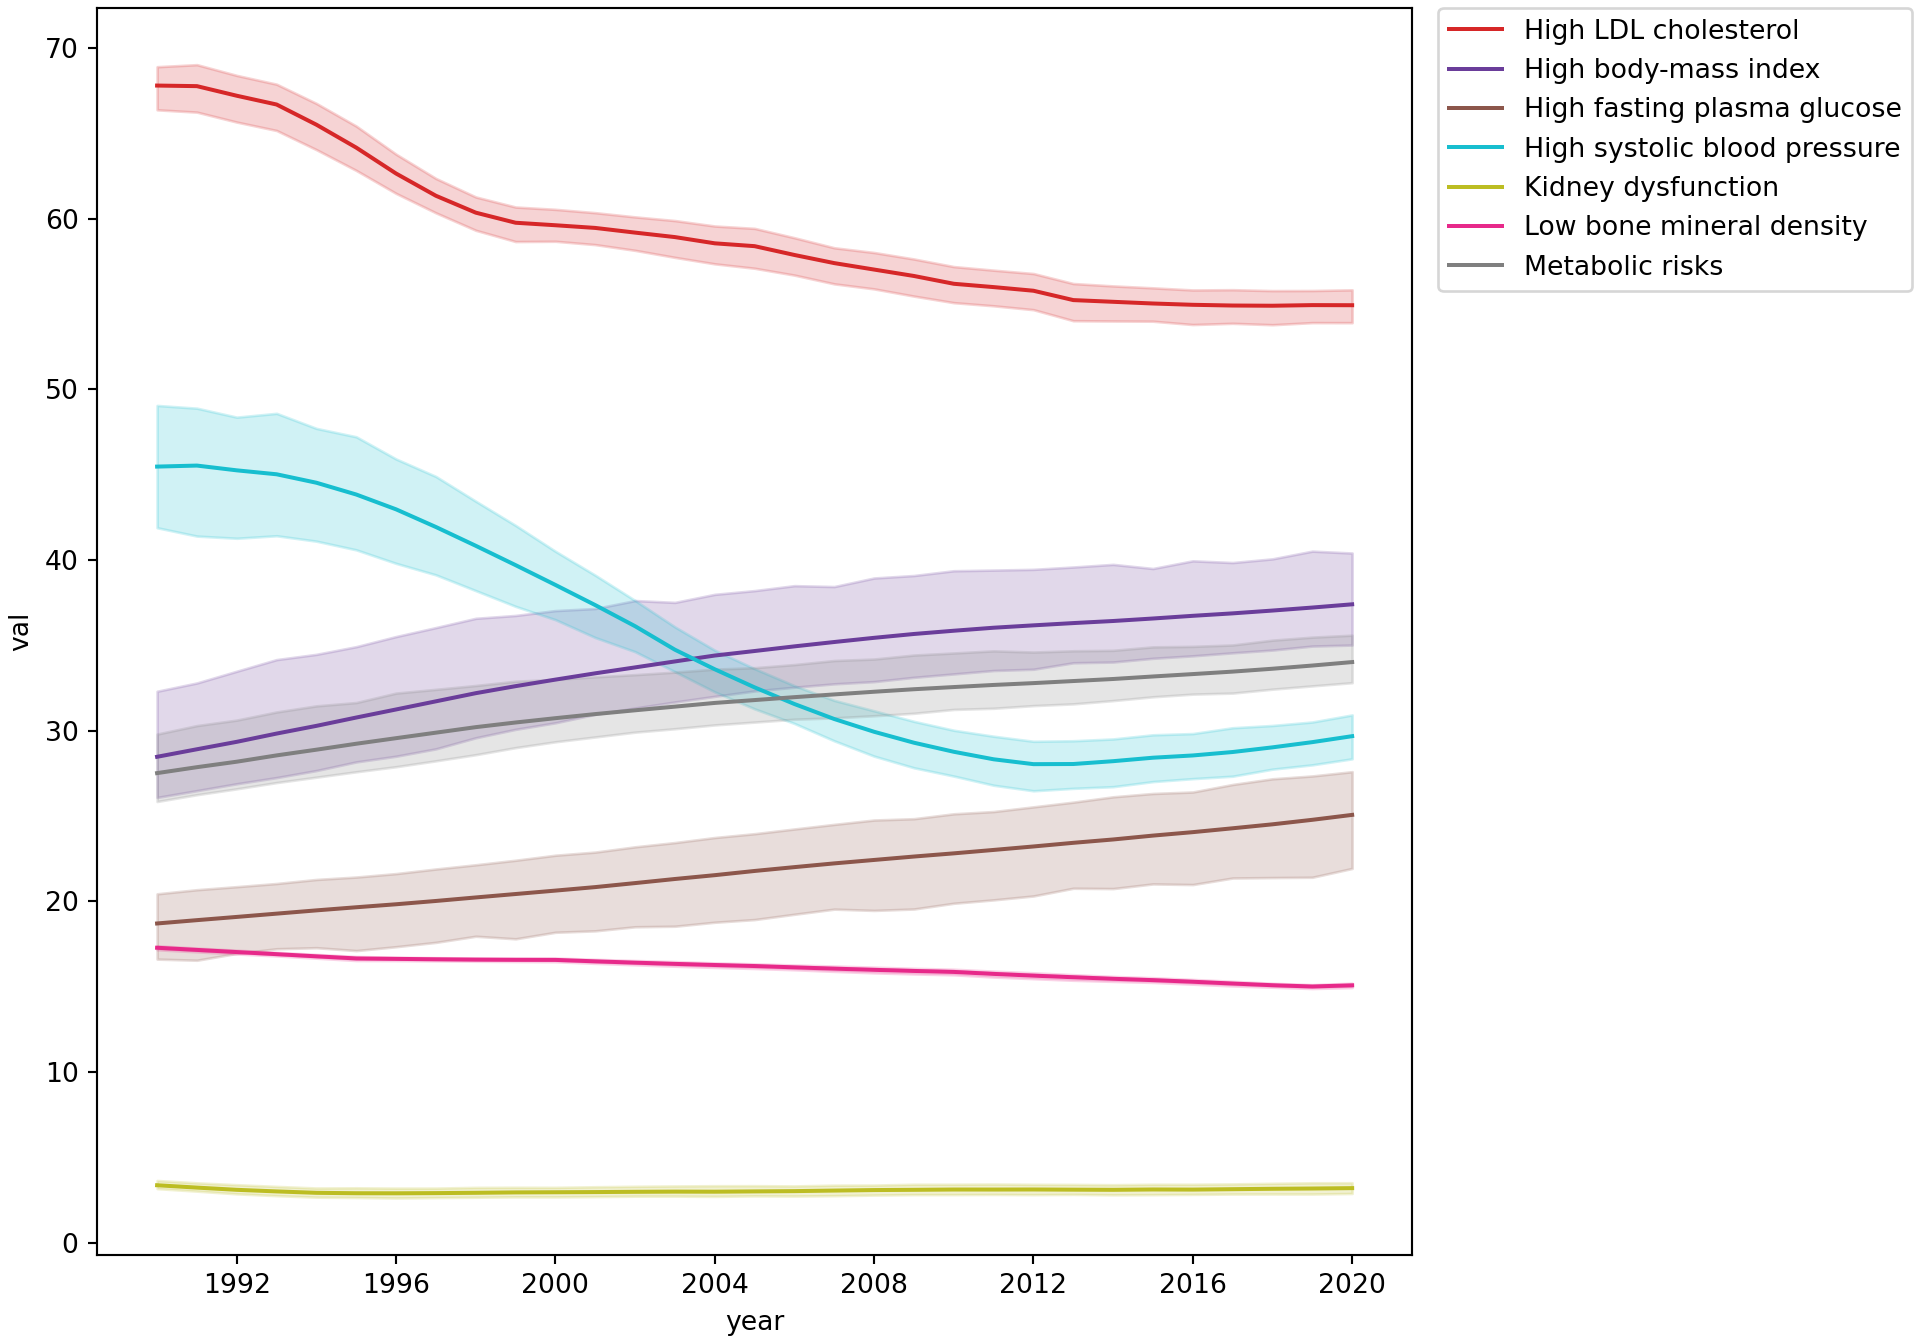
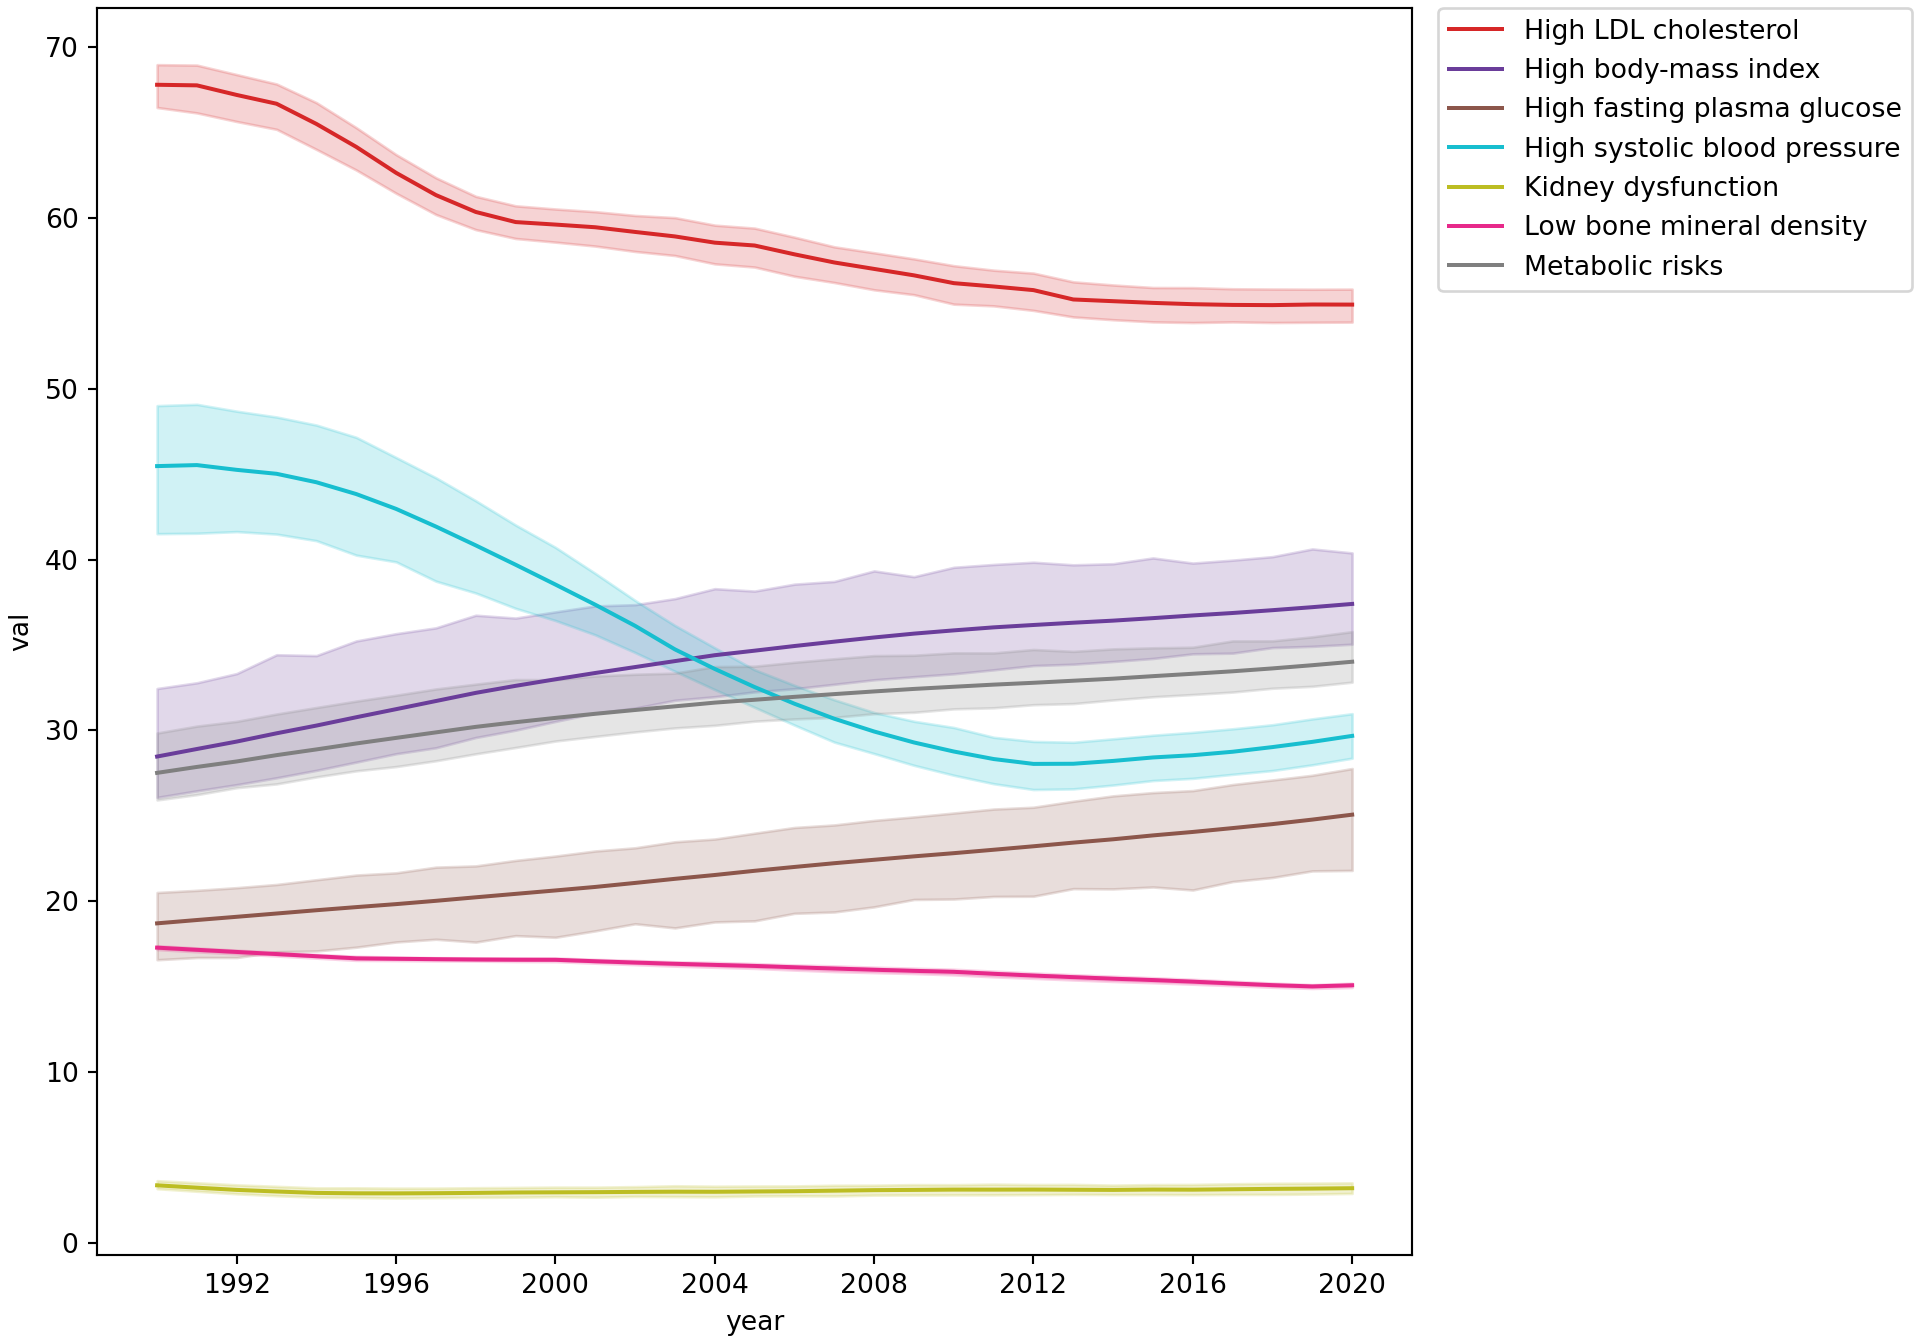
Built site for gh-pages

diff --git a/index.html b/index.html
@@ -335,8 +335,8 @@ window.Quarto = {
   <li><a href="#analysis---clusters-over-time" id="toc-analysis---clusters-over-time" class="nav-link" data-scroll-target="#analysis---clusters-over-time">Analysis - Clusters over Time</a>
   <ul class="collapse">
   <li><a href="#composition-clusters-with-bar-graphs-and-line-plots" id="toc-composition-clusters-with-bar-graphs-and-line-plots" class="nav-link" data-scroll-target="#composition-clusters-with-bar-graphs-and-line-plots">Composition Clusters with Bar Graphs and Line Plots</a></li>
+  <li><a href="#disease-line-plot-rename" id="toc-disease-line-plot-rename" class="nav-link" data-scroll-target="#disease-line-plot-rename">Disease Line Plot (Rename)</a></li>
   <li><a href="#section" id="toc-section" class="nav-link" data-scroll-target="#section"></a></li>
-  <li><a href="#section-1" id="toc-section-1" class="nav-link" data-scroll-target="#section-1"></a></li>
   <li><a href="#stats-for-proportions-confirming-the-significance-of-changing-clusters-over-time" id="toc-stats-for-proportions-confirming-the-significance-of-changing-clusters-over-time" class="nav-link" data-scroll-target="#stats-for-proportions-confirming-the-significance-of-changing-clusters-over-time">Stats for Proportions Confirming the Significance of Changing Clusters Over Time</a></li>
   <li><a href="#cochran-armitage-test" id="toc-cochran-armitage-test" class="nav-link" data-scroll-target="#cochran-armitage-test">Cochran-Armitage Test</a></li>
   <li><a href="#companion-robustness-kendall-tau-trend-test" id="toc-companion-robustness-kendall-tau-trend-test" class="nav-link" data-scroll-target="#companion-robustness-kendall-tau-trend-test">Companion Robustness: Kendall Tau Trend Test</a></li>
@@ -669,11 +669,20 @@ Figure&nbsp;11: Nutrient cluster proportions over time as line plot.
 </div>
 </div>
 </section>
+<section id="disease-line-plot-rename" class="level3">
+<h3 class="anchored" data-anchor-id="disease-line-plot-rename">Disease Line Plot (Rename)</h3>
+<div class="cell">
+<div class="cell-output-display">
+<div>
+<figure class="figure">
+<p><a href="capstone_files/figure-html/unnamed-chunk-10-1.png" class="lightbox" data-gallery="quarto-lightbox-gallery-12"><img src="capstone_files/figure-html/unnamed-chunk-10-1.png" class="img-fluid figure-img" width="672"></a></p>
+</figure>
+</div>
+</div>
+</div>
+</section>
 <section id="section" class="level3">
 <h3 class="anchored" data-anchor-id="section"></h3>
-</section>
-<section id="section-1" class="level3">
-<h3 class="anchored" data-anchor-id="section-1"></h3>
 </section>
 <section id="stats-for-proportions-confirming-the-significance-of-changing-clusters-over-time" class="level3">
 <h3 class="anchored" data-anchor-id="stats-for-proportions-confirming-the-significance-of-changing-clusters-over-time">Stats for Proportions Confirming the Significance of Changing Clusters Over Time</h3>
@@ -741,8 +750,14 @@ Figure&nbsp;11: Nutrient cluster proportions over time as line plot.
 <h3 class="anchored" data-anchor-id="cochran-armitage-test">Cochran-Armitage Test</h3>
 <p>The Cochran-Armitage trend test was applied separately to each of the five clusters, testing whether that cluster’s share of the population trended consistently upward or downward across the ordered sequence of survey years (1974-2000). It binary checked if the change in households was significantly different between the initial and final years to mark long-term trends. It found that all but cluster 1 experience significant change during the time frame. The confirms the listed trends, focusing on cluster 2 are not defined by noise in the data.Together, these results indicate a substantial compositional shift in the population’s cluster membership over the 27-year period, with Cluster 2 gaining population share at the expense of Clusters 0, 3, and 4, while Cluster 1 remained a stable, low-prevalence group throughout.</p>
 <div class="cell">
+<div id="tbl-cochran-armitage" class="cell quarto-float quarto-figure quarto-figure-center anchored">
+<figure class="quarto-float quarto-float-tbl figure">
+<figcaption class="quarto-float-caption-top quarto-float-caption quarto-float-tbl" id="tbl-cochran-armitage-caption-0ceaefa1-69ba-4598-a22c-09a6ac19f8ca">
+Table&nbsp;1: Cochran-Armitage trend test results, by nutrient cluster
+</figcaption>
+<div aria-describedby="tbl-cochran-armitage-caption-0ceaefa1-69ba-4598-a22c-09a6ac19f8ca">
 <div class="cell-output-display">
-<table class="table table-striped table-hover table-condensed caption-top table-sm small" data-quarto-postprocess="true">
+<table class="table table-striped table-hover table-condensed do-not-create-environment cell caption-top table-sm small" data-quarto-postprocess="true">
 <caption>Cochran-Armitage trend test results, by nutrient cluster</caption>
 <thead>
 <tr class="header">
@@ -817,6 +832,9 @@ Figure&nbsp;11: Nutrient cluster proportions over time as line plot.
 </table>
 </div>
 </div>
+</figure>
+</div>
+</div>
 </section>
 <section id="companion-robustness-kendall-tau-trend-test" class="level3">
 <h3 class="anchored" data-anchor-id="companion-robustness-kendall-tau-trend-test">Companion Robustness: Kendall Tau Trend Test</h3>
@@ -824,7 +842,7 @@ Figure&nbsp;11: Nutrient cluster proportions over time as line plot.
 <div id="tbl-kendall-tau" class="cell quarto-float quarto-figure quarto-figure-center anchored">
 <figure class="quarto-float quarto-float-tbl figure">
 <figcaption class="quarto-float-caption-top quarto-float-caption quarto-float-tbl" id="tbl-kendall-tau-caption-0ceaefa1-69ba-4598-a22c-09a6ac19f8ca">
-Table&nbsp;1: Kendall’s tau rank-correlation trend test, by nutrient cluster
+Table&nbsp;2: Kendall’s tau rank-correlation trend test, by nutrient cluster
 </figcaption>
 <div aria-describedby="tbl-kendall-tau-caption-0ceaefa1-69ba-4598-a22c-09a6ac19f8ca">
 <div class="cell-output-display">
@@ -886,7 +904,7 @@ Table&nbsp;1: Kendall’s tau rank-correlation trend test, by nutrient cluster
 <div id="fig-metabolic-rates-over-time-all-region" class="quarto-float quarto-figure quarto-figure-center anchored">
 <figure class="quarto-float quarto-float-fig figure">
 <div aria-describedby="fig-metabolic-rates-over-time-all-region-caption-0ceaefa1-69ba-4598-a22c-09a6ac19f8ca">
-<a href="capstone_files/figure-html/fig-metabolic-rates-over-time-all-region-1.png" class="lightbox" data-gallery="quarto-lightbox-gallery-12" title="Figure&nbsp;12: High LDL cholesterol across regions."><img src="capstone_files/figure-html/fig-metabolic-rates-over-time-all-region-1.png" class="img-fluid figure-img" width="960"></a>
+<a href="capstone_files/figure-html/fig-metabolic-rates-over-time-all-region-1.png" class="lightbox" data-gallery="quarto-lightbox-gallery-13" title="Figure&nbsp;12: High LDL cholesterol across regions."><img src="capstone_files/figure-html/fig-metabolic-rates-over-time-all-region-1.png" class="img-fluid figure-img" width="960"></a>
 </div>
 <figcaption class="quarto-float-caption-bottom quarto-float-caption quarto-float-fig" id="fig-metabolic-rates-over-time-all-region-caption-0ceaefa1-69ba-4598-a22c-09a6ac19f8ca">
 Figure&nbsp;12: High LDL cholesterol across regions.
@@ -905,7 +923,7 @@ Figure&nbsp;12: High LDL cholesterol across regions.
 <div id="fig-correlation-sweep-vs-LDL" class="quarto-float quarto-figure quarto-figure-center anchored">
 <figure class="quarto-float quarto-float-fig figure">
 <div aria-describedby="fig-correlation-sweep-vs-LDL-caption-0ceaefa1-69ba-4598-a22c-09a6ac19f8ca">
-<a href="capstone_files/figure-html/fig-correlation-sweep-vs-LDL-3.png" class="lightbox" data-gallery="quarto-lightbox-gallery-13" title="Figure&nbsp;13: Lag correlation sweeps for cluster 2 against High LDL cholesterol"><img src="capstone_files/figure-html/fig-correlation-sweep-vs-LDL-3.png" class="img-fluid figure-img" width="672"></a>
+<a href="capstone_files/figure-html/fig-correlation-sweep-vs-LDL-3.png" class="lightbox" data-gallery="quarto-lightbox-gallery-14" title="Figure&nbsp;13: Lag correlation sweeps for cluster 2 against High LDL cholesterol"><img src="capstone_files/figure-html/fig-correlation-sweep-vs-LDL-3.png" class="img-fluid figure-img" width="672"></a>
 </div>
 <figcaption class="quarto-float-caption-bottom quarto-float-caption quarto-float-fig" id="fig-correlation-sweep-vs-LDL-caption-0ceaefa1-69ba-4598-a22c-09a6ac19f8ca">
 Figure&nbsp;13: Lag correlation sweeps for cluster 2 against High LDL cholesterol
@@ -915,35 +933,11 @@ Figure&nbsp;13: Lag correlation sweeps for cluster 2 against High LDL cholestero
 </div>
 </div>
 <div id="cell-fig-correlation-sweep-for-other-disease" class="cell">
-<div class="cell-output cell-output-stdout">
-<pre><code>    lag         r
-0     0 -0.572777
-1     1 -0.298106
-2     2 -0.052893
-3     3  0.467787
-4     4  0.446081
-5     5  0.678667
-6     6  0.426708
-7     7  0.445592
-8     8  0.100704
-9     9 -0.117699
-10   10 -0.248187
-11   11 -0.158684
-12   12 -0.173682
-13   13 -0.094746
-14   14  0.299795
-15   15  0.320505
-16   16  0.393172
-17   17  0.459365
-18   18  0.434622
-19   19  0.332349
-20   20  0.283300</code></pre>
-</div>
 <div class="cell-output-display">
 <div id="fig-correlation-sweep-for-other-disease" class="quarto-float quarto-figure quarto-figure-center anchored">
 <figure class="quarto-float quarto-float-fig figure">
 <div aria-describedby="fig-correlation-sweep-for-other-disease-caption-0ceaefa1-69ba-4598-a22c-09a6ac19f8ca">
-<a href="capstone_files/figure-html/fig-correlation-sweep-for-other-disease-5.png" class="lightbox" data-gallery="quarto-lightbox-gallery-14" title="Figure&nbsp;14: Lag correlation sweeps for all nutrient clusters against LDL"><img src="capstone_files/figure-html/fig-correlation-sweep-for-other-disease-5.png" class="img-fluid figure-img" width="2400"></a>
+<a href="capstone_files/figure-html/fig-correlation-sweep-for-other-disease-5.png" class="lightbox" data-gallery="quarto-lightbox-gallery-15" title="Figure&nbsp;14: Lag correlation sweeps for all nutrient clusters against LDL"><img src="capstone_files/figure-html/fig-correlation-sweep-for-other-disease-5.png" class="img-fluid figure-img" width="2400"></a>
 </div>
 <figcaption class="quarto-float-caption-bottom quarto-float-caption quarto-float-fig" id="fig-correlation-sweep-for-other-disease-caption-0ceaefa1-69ba-4598-a22c-09a6ac19f8ca">
 Figure&nbsp;14: Lag correlation sweeps for all nutrient clusters against LDL
@@ -962,7 +956,7 @@ Figure&nbsp;14: Lag correlation sweeps for all nutrient clusters against LDL
 <div id="fig-map-neg-corr-ldl-nute-cluster-2" class="quarto-float quarto-figure quarto-figure-center anchored">
 <figure class="quarto-float quarto-float-fig figure">
 <div aria-describedby="fig-map-neg-corr-ldl-nute-cluster-2-caption-0ceaefa1-69ba-4598-a22c-09a6ac19f8ca">
-<a href="capstone_files/figure-html/fig-map-neg-corr-ldl-nute-cluster-2-7.png" class="lightbox" data-gallery="quarto-lightbox-gallery-15" title="Figure&nbsp;15: Consistent negative correlation at five year lag across the UK"><img src="capstone_files/figure-html/fig-map-neg-corr-ldl-nute-cluster-2-7.png" class="img-fluid figure-img" width="768"></a>
+<a href="capstone_files/figure-html/fig-map-neg-corr-ldl-nute-cluster-2-7.png" class="lightbox" data-gallery="quarto-lightbox-gallery-16" title="Figure&nbsp;15: Consistent negative correlation at five year lag across the UK"><img src="capstone_files/figure-html/fig-map-neg-corr-ldl-nute-cluster-2-7.png" class="img-fluid figure-img" width="768"></a>
 </div>
 <figcaption class="quarto-float-caption-bottom quarto-float-caption quarto-float-fig" id="fig-map-neg-corr-ldl-nute-cluster-2-caption-0ceaefa1-69ba-4598-a22c-09a6ac19f8ca">
 Figure&nbsp;15: Consistent negative correlation at five year lag across the UK
@@ -976,7 +970,7 @@ Figure&nbsp;15: Consistent negative correlation at five year lag across the UK
 <div id="fig-map-no-corr-blood-pressure-nute-cluster-2" class="quarto-float quarto-figure quarto-figure-center anchored">
 <figure class="quarto-float quarto-float-fig figure">
 <div aria-describedby="fig-map-no-corr-blood-pressure-nute-cluster-2-caption-0ceaefa1-69ba-4598-a22c-09a6ac19f8ca">
-<a href="capstone_files/figure-html/fig-map-no-corr-blood-pressure-nute-cluster-2-9.png" class="lightbox" data-gallery="quarto-lightbox-gallery-16" title="Figure&nbsp;16: Not consistent l;a against blood proessure in the same time"><img src="capstone_files/figure-html/fig-map-no-corr-blood-pressure-nute-cluster-2-9.png" class="img-fluid figure-img" width="768"></a>
+<a href="capstone_files/figure-html/fig-map-no-corr-blood-pressure-nute-cluster-2-9.png" class="lightbox" data-gallery="quarto-lightbox-gallery-17" title="Figure&nbsp;16: Not consistent l;a against blood proessure in the same time"><img src="capstone_files/figure-html/fig-map-no-corr-blood-pressure-nute-cluster-2-9.png" class="img-fluid figure-img" width="768"></a>
 </div>
 <figcaption class="quarto-float-caption-bottom quarto-float-caption quarto-float-fig" id="fig-map-no-corr-blood-pressure-nute-cluster-2-caption-0ceaefa1-69ba-4598-a22c-09a6ac19f8ca">
 Figure&nbsp;16: Not consistent l;a against blood proessure in the same time
@@ -1011,7 +1005,7 @@ Figure&nbsp;16: Not consistent l;a against blood proessure in the same time
 <div class="cell-output-display">
 <div>
 <figure class="figure">
-<p><a href="capstone_files/figure-html/unnamed-chunk-17-11.png" class="lightbox" data-gallery="quarto-lightbox-gallery-17"><img src="capstone_files/figure-html/unnamed-chunk-17-11.png" class="img-fluid figure-img" width="2156"></a></p>
+<p><a href="capstone_files/figure-html/unnamed-chunk-17-11.png" class="lightbox" data-gallery="quarto-lightbox-gallery-18"><img src="capstone_files/figure-html/unnamed-chunk-17-11.png" class="img-fluid figure-img" width="2156"></a></p>
 </figure>
 </div>
 </div>
